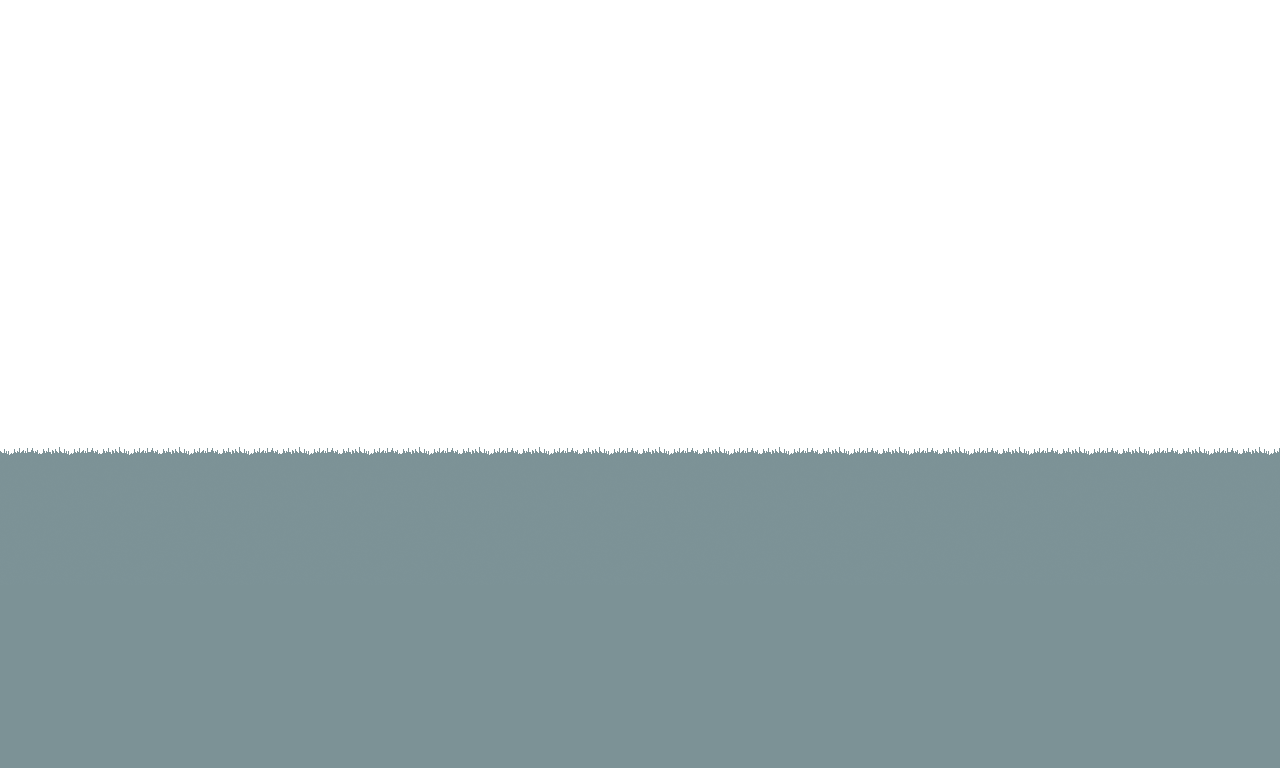
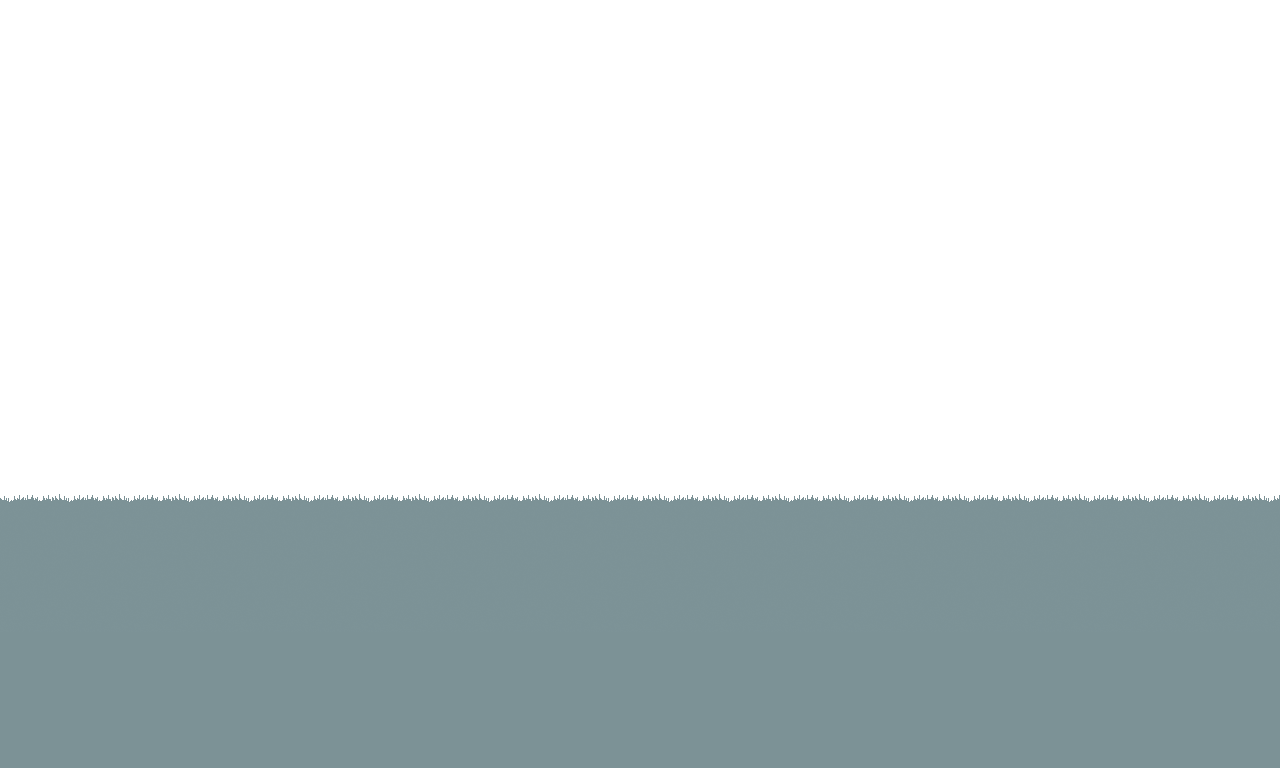
Parallax Fix & Moving Attacks

Changed region(s): [[0.0, 0.5625, 1.0, 0.6562]]

diff --git a/core/src/com/jbs/platformerengine/gamedata/entity/player/AttackData.java b/core/src/com/jbs/platformerengine/gamedata/entity/player/AttackData.java
@@ -6,34 +6,43 @@ public class AttackData {
     public float[] attackDecayTimerMax;
     public int[] attackFrameStart;
     public int[] attackFrameEnd;
+    public int[] attackComboStartFrame;
 
     public int[] attackXMod;
     public int[] attackYMod;
     public int[] attackWidth;
     public int[] attackHeight;
+    public int[] attackMoveWidth;
+    public int[] attackMoveHeight;
 
-    public AttackData(float[] attackDecayTimerMax, int[] attackFrameStart, int[] attackFrameEnd, int[] attackXMod, int[] attackYMod, int[] attackWidth, int[] attackHeight) {
+    public AttackData(float[] attackDecayTimerMax, int[] attackFrameStart, int[] attackFrameEnd, int[] attackComboStartFrame, int[] attackXMod, int[] attackYMod, int[] attackWidth, int[] attackHeight, int[] attackMoveWidth, int[] attackMoveHeight) {
         this.attackDecayTimerMax = attackDecayTimerMax;
         this.attackFrameStart = attackFrameStart;
         this.attackFrameEnd = attackFrameEnd;
+        this.attackComboStartFrame = attackComboStartFrame;
         
         this.attackXMod = attackXMod;
         this.attackYMod = attackYMod;
         this.attackWidth = attackWidth;
         this.attackHeight = attackHeight;
+        this.attackMoveWidth = attackMoveWidth;
+        this.attackMoveHeight = attackMoveHeight;
     }
 
     public static HashMap<String, AttackData> loadAttackData() {
         HashMap<String, AttackData> attackData = new HashMap<>();
 
-        float[] attackDecayTimerMax = new float[] {24f};
-        int[] attackFrameStart = new int[] {3};
-        int[] attackFrameEnd = new int[] {7};
-        int[] attackXMod = new int[] {20};
-        int[] attackYMod = new int[] {34};
-        int[] attackWidth = new int[] {50};
-        int[] attackHeight = new int[] {4};
-        AttackData attackDataSword01 = new AttackData(attackDecayTimerMax, attackFrameStart, attackFrameEnd, attackXMod, attackYMod, attackWidth, attackHeight);
+        float[] attackDecayTimerMax = new float[] {24f, 24f, 20f};
+        int[] attackFrameStart = new int[] {3, 3, 2};
+        int[] attackFrameEnd = new int[] {7, 7, 7};
+        int[] attackComboStartFrame = new int[] {12, 12, -1};
+        int[] attackXMod = new int[] {20, 25, 25};
+        int[] attackYMod = new int[] {34, 29, 40};
+        int[] attackWidth = new int[] {50, 50, 30};
+        int[] attackHeight = new int[] {4, 4, 6};
+        int[] attackMoveWidth = new int[] {-1, -1, -1};
+        int[] attackMoveHeight = new int[] {-1, -1, -40};
+        AttackData attackDataSword01 = new AttackData(attackDecayTimerMax, attackFrameStart, attackFrameEnd, attackComboStartFrame, attackXMod, attackYMod, attackWidth, attackHeight, attackMoveWidth, attackMoveHeight);
         attackData.put("Sword 01", attackDataSword01);
 
         return attackData;

diff --git a/core/src/com/jbs/platformerengine/gamedata/entity/player/Player.java b/core/src/com/jbs/platformerengine/gamedata/entity/player/Player.java
@@ -763,8 +763,11 @@ public class Player {
 
     public void attack() {
         if(attackCount < attackData.get(getCurrentAttack()).attackDecayTimerMax.length) {
-            attackCount += 1;
-            attackDecayTimer = 0;
+            if(attackCount == 0
+            || attackDecayTimer >= attackData.get(getCurrentAttack()).attackComboStartFrame[attackCount - 1]) {
+                attackCount += 1;
+                attackDecayTimer = 0;
+            }
         }
     }
 
@@ -816,11 +819,25 @@ public class Player {
     }
 
     public Rect getAttackHitBox() {
-        int attackX = hitBoxArea.x + (hitBoxArea.width / 2) + attackData.get(getCurrentAttack()).attackXMod[attackCount - 1];
-        if(facingDirection.equals("Left")) {
-            attackX -= attackData.get(getCurrentAttack()).attackWidth[attackCount - 1] + (attackData.get(getCurrentAttack()).attackXMod[attackCount - 1] * 2);
+        float movePercent = 0f;
+        int xMove = 0;
+        int yMove = 0;
+        if(attackDecayTimer > attackData.get(getCurrentAttack()).attackFrameStart[attackCount - 1]
+        && attackDecayTimer < attackData.get(getCurrentAttack()).attackFrameEnd[attackCount - 1]) {
+            movePercent = (attackDecayTimer - attackData.get(getCurrentAttack()).attackFrameStart[attackCount - 1] - 1) / (attackData.get(getCurrentAttack()).attackFrameEnd[attackCount - 1] - attackData.get(getCurrentAttack()).attackFrameStart[attackCount - 1] - 2);
+            if(attackData.get(getCurrentAttack()).attackMoveWidth[attackCount - 1] != -1) {
+                xMove = (int) (movePercent * attackData.get(getCurrentAttack()).attackMoveWidth[attackCount - 1]);
+            }
+            if(attackData.get(getCurrentAttack()).attackMoveHeight[attackCount - 1] != -1) {
+                yMove = (int) (movePercent * attackData.get(getCurrentAttack()).attackMoveHeight[attackCount - 1]);
+            }
         }
-        int attackY = hitBoxArea.y + attackData.get(getCurrentAttack()).attackYMod[attackCount - 1];
+
+        int attackX = hitBoxArea.x + (hitBoxArea.width / 2) + attackData.get(getCurrentAttack()).attackXMod[attackCount - 1] + xMove;
+        if(facingDirection.equals("Left")) {
+            attackX -= attackData.get(getCurrentAttack()).attackWidth[attackCount - 1] + (attackData.get(getCurrentAttack()).attackXMod[attackCount - 1] * 2) + xMove;
+        }
+        int attackY = hitBoxArea.y + attackData.get(getCurrentAttack()).attackYMod[attackCount - 1] + yMove;
         if(ducking) {
             attackY -= 13;
         }

diff --git a/core/src/com/jbs/platformerengine/gamedata/area/AreaData.java b/core/src/com/jbs/platformerengine/gamedata/area/AreaData.java
@@ -7,6 +7,7 @@ import com.badlogic.gdx.files.FileHandle;
 import com.badlogic.gdx.graphics.GL20;
 import com.badlogic.gdx.graphics.Pixmap;
 import com.badlogic.gdx.graphics.Texture;
+import com.badlogic.gdx.graphics.g2d.Sprite;
 import com.badlogic.gdx.graphics.g2d.SpriteBatch;
 import com.badlogic.gdx.graphics.glutils.FrameBuffer;
 import com.jbs.platformerengine.gamedata.Point;
@@ -640,6 +641,7 @@ public class AreaData {
 
             // Top Wall //
             int topWallIndent = 3;
+            boolean drawTopWallBackground = false;
 
             if(x >= topWallIndent) {
                 tileNum = 8;
@@ -664,6 +666,7 @@ public class AreaData {
                     }
 
                     spriteBatch.draw(imageManager.tile.get("Wood").get(tileName).get(tileNum), tileX * 16, (yLoc + y) * 16);
+                    drawTopWallBackground = true;
                 }
                 else if(x > (topWallIndent - 1) && y == 5) {
                     spriteBatch.draw(imageManager.tile.get("Wood").get("Horizontal").get(0), tileX * 16, (yLoc + y) * 16);
@@ -673,6 +676,21 @@ public class AreaData {
 
             spriteBatch.end();
             screenChunks[chunkX][chunkY].frameBufferForeground.end();
+
+            // Top Wall Background (Tinted) //
+            if(drawTopWallBackground) {
+                Sprite sprite = new Sprite(imageManager.tile.get("Wood").get("Vertical-Middle").get(1));
+                sprite.setColor(0, 0, 1, 1);
+                for(int y = 0; y < 6; y++) {
+                    screenChunks[chunkX][chunkY].frameBufferWalls.begin();
+                    spriteBatch.begin();
+                    spriteBatch.setColor(100/255f, 100/255f, 100/255f, 1);
+                    spriteBatch.draw(sprite, (tileX + 1) * 16, (yLoc + y) * 16);
+                    spriteBatch.setColor(1, 1, 1, 1);
+                    spriteBatch.end();
+                    screenChunks[chunkX][chunkY].frameBufferWalls.end();
+                }
+            }
         }
 
         // Rooftop //
@@ -920,7 +938,9 @@ public class AreaData {
         }
 
         // Other Properties //
-        nightTimer = 0;
+        if(outside) {
+            nightTimer = 0;
+        }
     }
 
     public void update() {

diff --git a/core/src/com/jbs/platformerengine/screen/gamescreen/GameScreen.java b/core/src/com/jbs/platformerengine/screen/gamescreen/GameScreen.java
@@ -24,12 +24,10 @@ import com.jbs.platformerengine.screen.Screen;
  * Fix Ceiling Ramp Collisions
  * Wave Shader When Walking Past Grass
  * Fix animation stack order
- * Bridge - top background (tinting?)
- * Combat - charged attacks, combo attacks
- * Moon glow (blending)
+ * Move frameBuffers to AreaData?
+ * Combat - charged attacks
  * Basic mob
- * Moon texture location
- * Fix Parralax Background
+ * Moon texture & glow location
  * 
  * Bugs:
  * Superjumps Can Get Disabled Somehow Through Excessive Dropkick/Superjumping
@@ -304,9 +302,9 @@ public class GameScreen extends Screen {
                     yMod = heightPercent * 400;
 
                     if(i == 1) {
-                        yMod += heightPercent * 14;
+                        yMod -= heightPercent * 14;
                     } else if(i == 2) {
-                        yMod += heightPercent * 50;
+                        yMod -= heightPercent * 50;
                     }
                 }
 
@@ -330,6 +328,7 @@ public class GameScreen extends Screen {
         spriteBatch.begin();
 
         Texture textureMoon = new Texture("images/objects/Moon_01.png"); // temp
+        Texture textureMoonGlow = new Texture("images/objects/Moon_02.png"); // temp
         float moonXMod = 0f;
         float moonYMod = 0f;
         if(xPercent >= 0) {
@@ -340,15 +339,17 @@ public class GameScreen extends Screen {
         }
 
         float nightPercent = areaData.nightTimer / areaData.nightTimerMax;
-        float xPercentMod = (float) (1 - Math.cos(Math.toRadians(nightPercent * 180))) * 225;
+        float xPercentMod = nightPercent * 225;
         float yPercentMod = (float) (1 - Math.cos(Math.toRadians(nightPercent * 90))) * 20;
 
         float moonX = 550 + moonXMod - xPercentMod;
         float moonY = 240 + moonYMod - yPercentMod;
+        spriteBatch.draw(textureMoonGlow, moonX - 46, moonY - 46);
         spriteBatch.draw(textureMoon, moonX, moonY);
 
         spriteBatch.end();
         textureMoon.dispose();
+        textureMoonGlow.dispose();
     }
 
     public void renderWalls(Player player) {

diff --git a/core/src/com/jbs/platformerengine/gamedata/area/Area01.java b/core/src/com/jbs/platformerengine/gamedata/area/Area01.java
@@ -25,7 +25,7 @@ public class Area01 extends AreaData {
 
         outside = true;
         nightTimer = 0;
-        nightTimerMax = 60 * 100;
+        nightTimerMax = 60 * 500;
 
         loadScreenChunks();
     }
